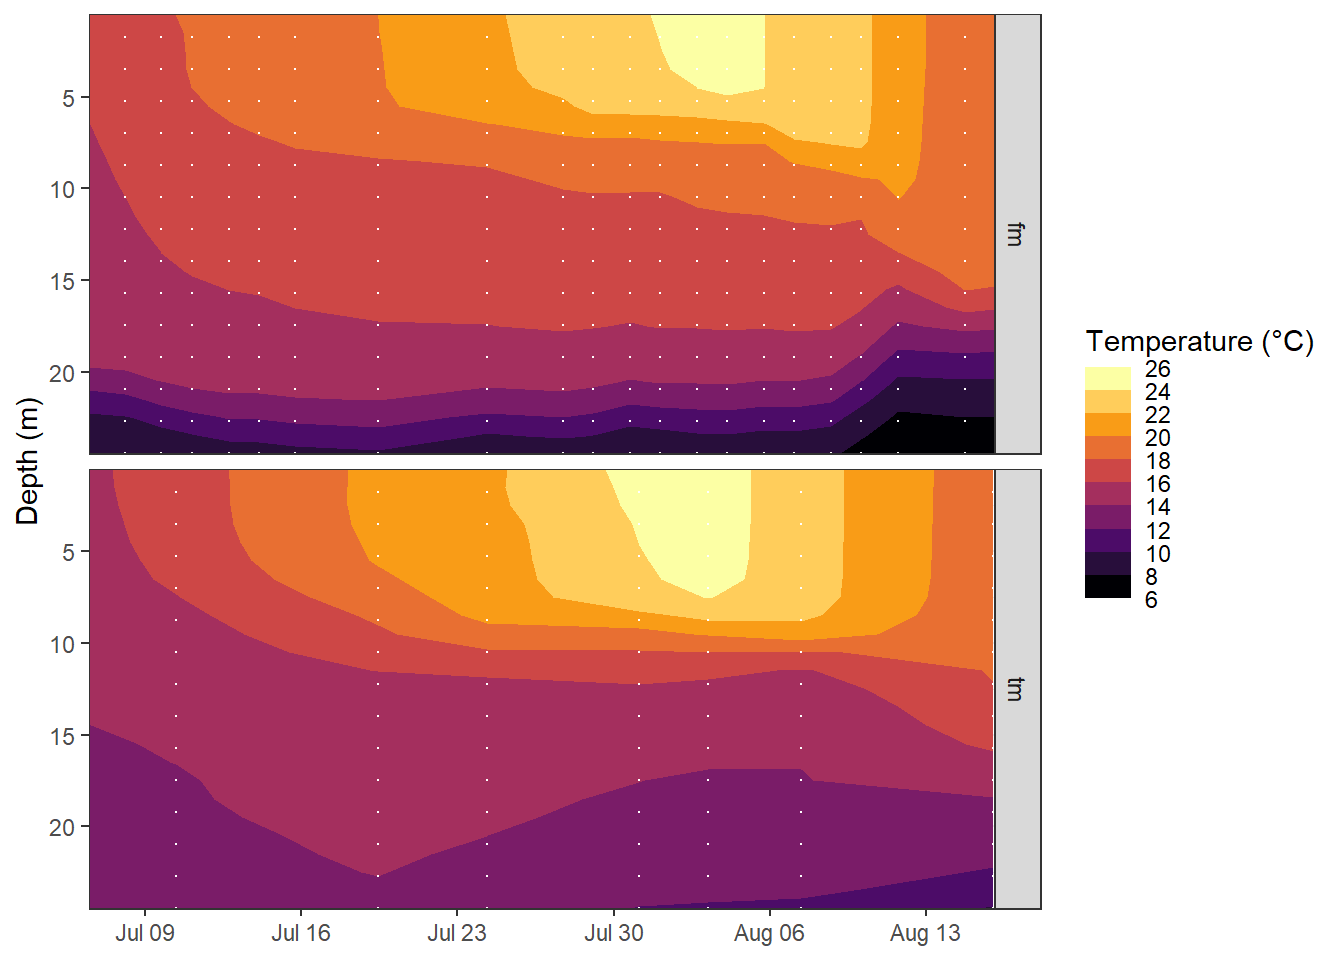
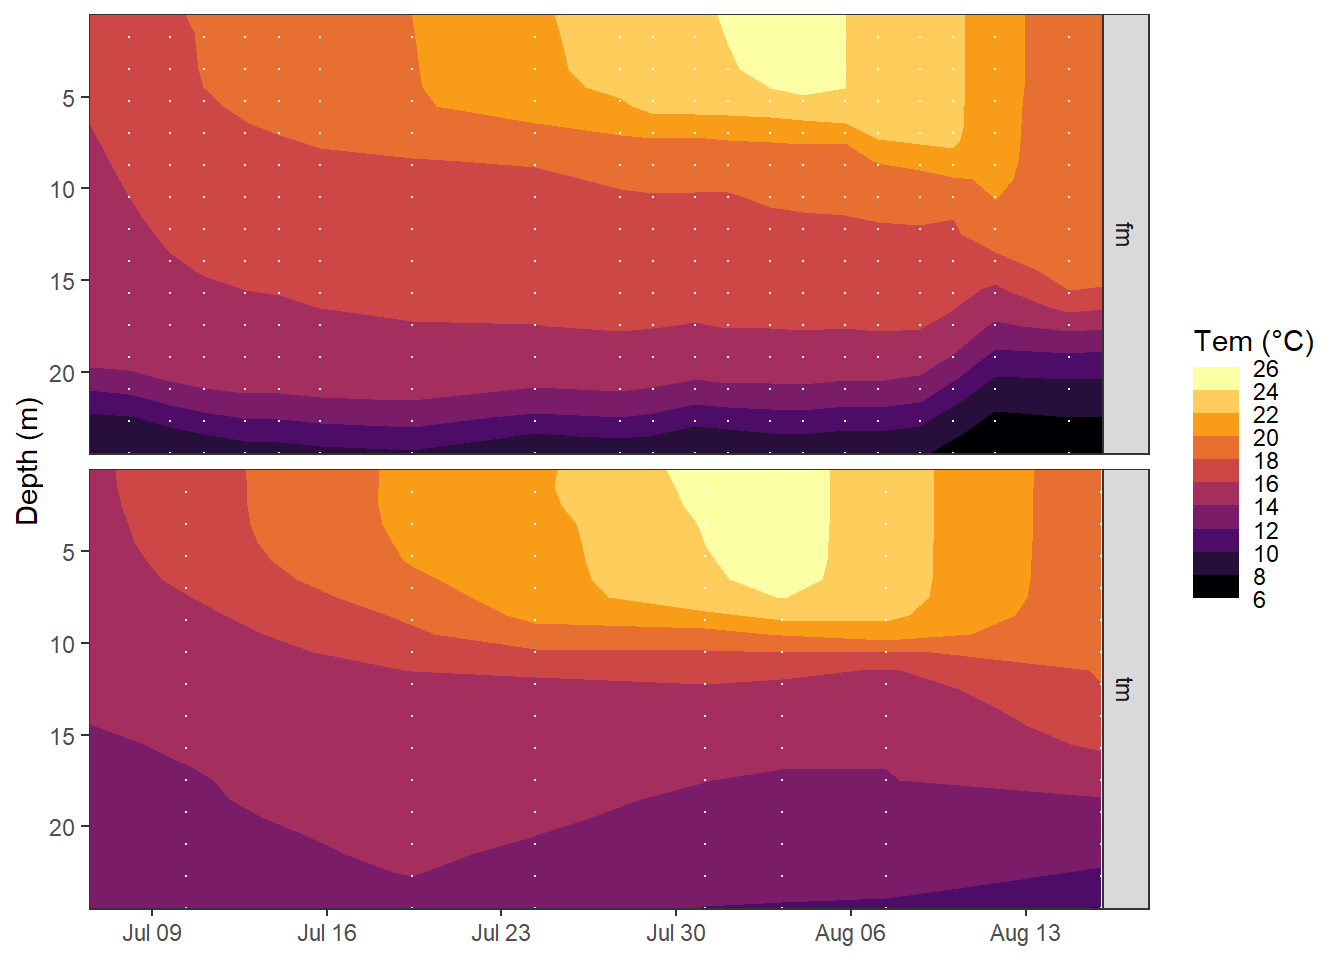
Build site.

diff --git a/docs/NCP_reconstruction.html b/docs/NCP_reconstruction.html
@@ -561,16 +561,16 @@ This reproducible <a href="http://rmarkdown.rstudio.com">R Markdown</a> analysis
 <div class="panel panel-default">
 <div class="panel-heading">
 <p class="panel-title">
-<a data-toggle="collapse" data-parent="#workflowr-checks" href="#strongRepositoryversionstrongahrefhttpsgithubcomjensdanielmuellerBloomSailtree536cb1a9d58785b6b1087aea26ac3f0f3800076etargetblank536cb1aa"> <span class="glyphicon glyphicon-ok text-success" aria-hidden="true"></span> <strong>Repository version:</strong> <a href="https://github.com/jens-daniel-mueller/BloomSail/tree/536cb1a9d58785b6b1087aea26ac3f0f3800076e" target="_blank">536cb1a</a> </a>
+<a data-toggle="collapse" data-parent="#workflowr-checks" href="#strongRepositoryversionstrongahrefhttpsgithubcomjensdanielmuellerBloomSailtree0ba33ec8de552bc6e02de58e37a904138a3f85b1targetblank0ba33eca"> <span class="glyphicon glyphicon-ok text-success" aria-hidden="true"></span> <strong>Repository version:</strong> <a href="https://github.com/jens-daniel-mueller/BloomSail/tree/0ba33ec8de552bc6e02de58e37a904138a3f85b1" target="_blank">0ba33ec</a> </a>
 </p>
 </div>
[2 lines of base64/hex data omitted]
 <div class="panel-body">
 <p>
 Great! You are using Git for version control. Tracking code development and connecting the code version to the results is critical for reproducibility.
 </p>
 <p>
-The results in this page were generated with repository version <a href="https://github.com/jens-daniel-mueller/BloomSail/tree/536cb1a9d58785b6b1087aea26ac3f0f3800076e" target="_blank">536cb1a</a>. See the <em>Past versions</em> tab to see a history of the changes made to the R Markdown and HTML files.
+The results in this page were generated with repository version <a href="https://github.com/jens-daniel-mueller/BloomSail/tree/0ba33ec8de552bc6e02de58e37a904138a3f85b1" target="_blank">0ba33ec</a>. See the <em>Past versions</em> tab to see a history of the changes made to the R Markdown and HTML files.
 </p>
 <p>
 Note that you need to be careful to ensure that all relevant files for the analysis have been committed to Git prior to generating the results (you can use <code>wflow_publish</code> or <code>wflow_git_commit</code>). workflowr only checks the R Markdown file, but you know if there are other scripts or data files that it depends on. Below is the status of the Git repository when the results were generated:
@@ -626,6 +626,40 @@ Message
 </tr>
 </thead>
 <tbody>
+<tr>
+<td>
+Rmd
+</td>
+<td>
+<a href="https://github.com/jens-daniel-mueller/BloomSail/blob/0ba33ec8de552bc6e02de58e37a904138a3f85b1/analysis/NCP_reconstruction.Rmd" target="_blank">0ba33ec</a>
+</td>
+<td>
+jens-daniel-mueller
+</td>
+<td>
+2020-05-19
+</td>
+<td>
+cleaned NCP reconstruction IV
+</td>
+</tr>
+<tr>
+<td>
+html
+</td>
+<td>
+<a href="https://rawcdn.githack.com/jens-daniel-mueller/BloomSail/7f4066edc099d4f2d427945d2d986ff24755265f/docs/NCP_reconstruction.html" target="_blank">7f4066e</a>
+</td>
+<td>
+jens-daniel-mueller
+</td>
+<td>
+2020-05-19
+</td>
+<td>
+Build site.
+</td>
+</tr>
 <tr>
 <td>
 Rmd
@@ -1277,7 +1311,7 @@ tm_fm_gt %&gt;%
   geom_contour_fill(breaks = MakeBreaks(bin))+
   geom_vline(aes(xintercept = date_time_ID),
              col=&quot;white&quot;, linetype = &quot;1f&quot;)+
-  scale_fill_viridis_c(name=&quot;Temperature (°C)&quot;, option = &quot;B&quot;,
+  scale_fill_viridis_c(name=&quot;Tem (°C)&quot;, option = &quot;B&quot;,
                        guide = &quot;colorstrip&quot;, breaks = MakeBreaks(bin))+
   scale_y_reverse()+
   scale_x_datetime(date_breaks = &quot;week&quot;,
@@ -1330,17 +1364,6 @@ tm_fm_gt_MLD &lt;- tm_fm_gt_MLD %&gt;%
   summarise(MLD = min(dep)) %&gt;% 
   ungroup() %&gt;% 
   mutate(rho_lim = as.factor(rho_lim))</code></pre>
-<pre class="r"><code>tm_fm_gt_MLD %&gt;% 
-  ggplot()+
-  geom_hline(yintercept = 0)+
-  geom_line(aes(date_time_ID, MLD, col=rho_lim))+
-  scale_y_reverse(limits = c(25,0))+
-  scale_x_datetime(date_breaks = &quot;week&quot;,
-                   date_labels = &quot;%b %d&quot;)+
-  scale_color_viridis_d(name=&quot;Rho lim&quot;)+
-  labs(x=&quot;&quot;, y=&quot;MLD (m)&quot;)+
-  facet_grid(source~.)</code></pre>
-<p><img src="figure/NCP_reconstruction.Rmd/MLD_time_series-1.png" width="672" style="display: block; margin: auto;" /></p>
 <pre class="r"><code>bin &lt;- 2
 
 tm_fm_gt %&gt;% 
@@ -1348,10 +1371,10 @@ tm_fm_gt %&gt;%
   geom_contour_fill(aes(date_time_ID, dep, z=tem),
                     breaks = MakeBreaks(bin))+
   geom_path(data = tm_fm_gt_MLD, aes(date_time_ID, MLD, col=rho_lim))+
-  scale_fill_gradient(name=&quot;Temperature (°C)&quot;,
+  scale_fill_gradient(name=&quot;Tem (°C)&quot;,
                       guide = &quot;colorstrip&quot;, breaks = MakeBreaks(bin),
-                      high = &quot;white&quot;,
-                      low = &quot;darkgrey&quot;)+
+                      high = &quot;grey90&quot;,
+                      low = &quot;grey10&quot;)+
   scale_color_viridis_d()+
   scale_y_reverse()+
   scale_x_datetime(date_breaks = &quot;week&quot;,
